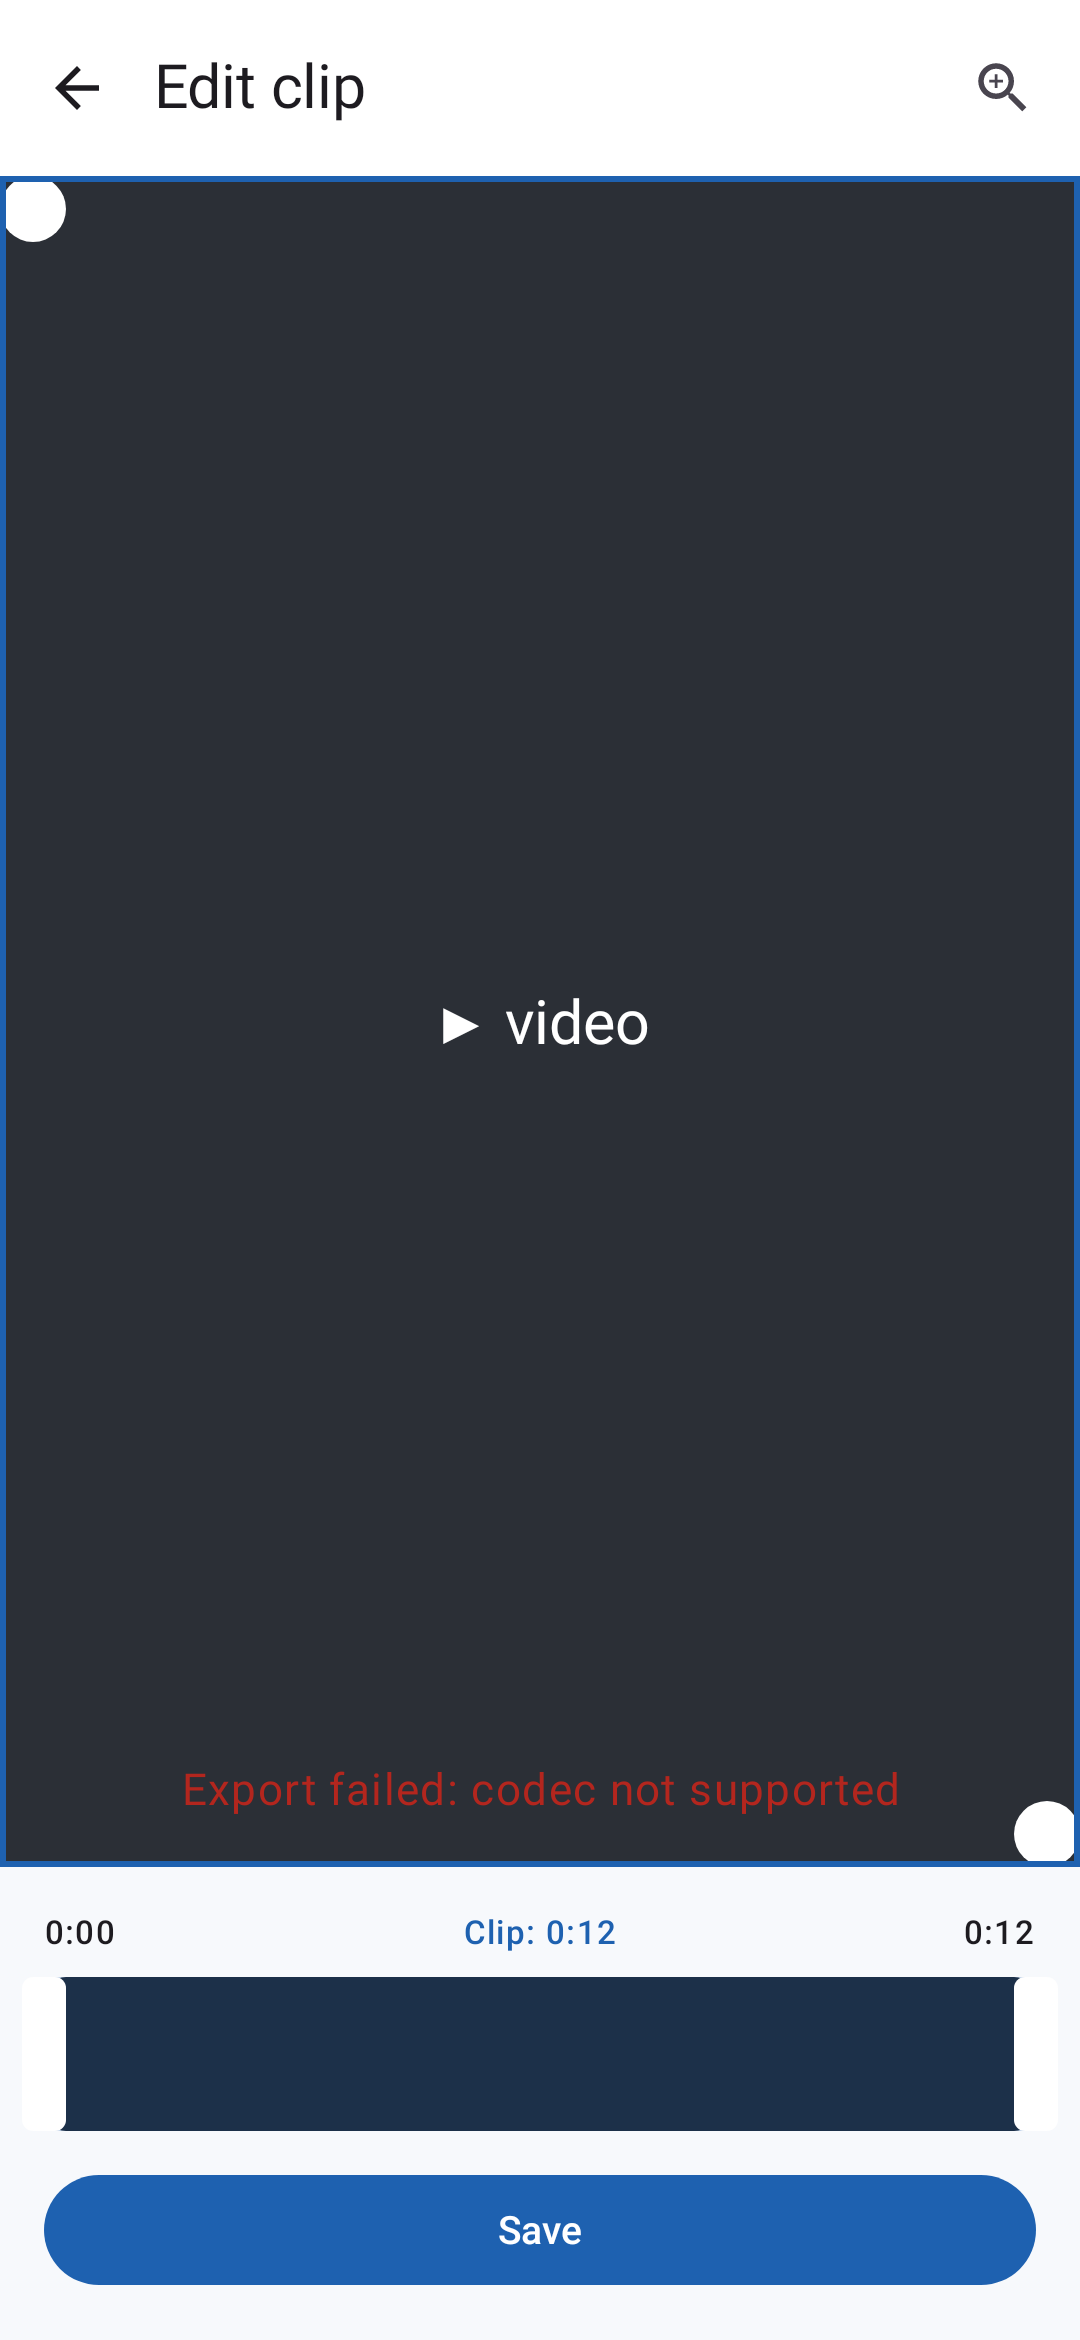
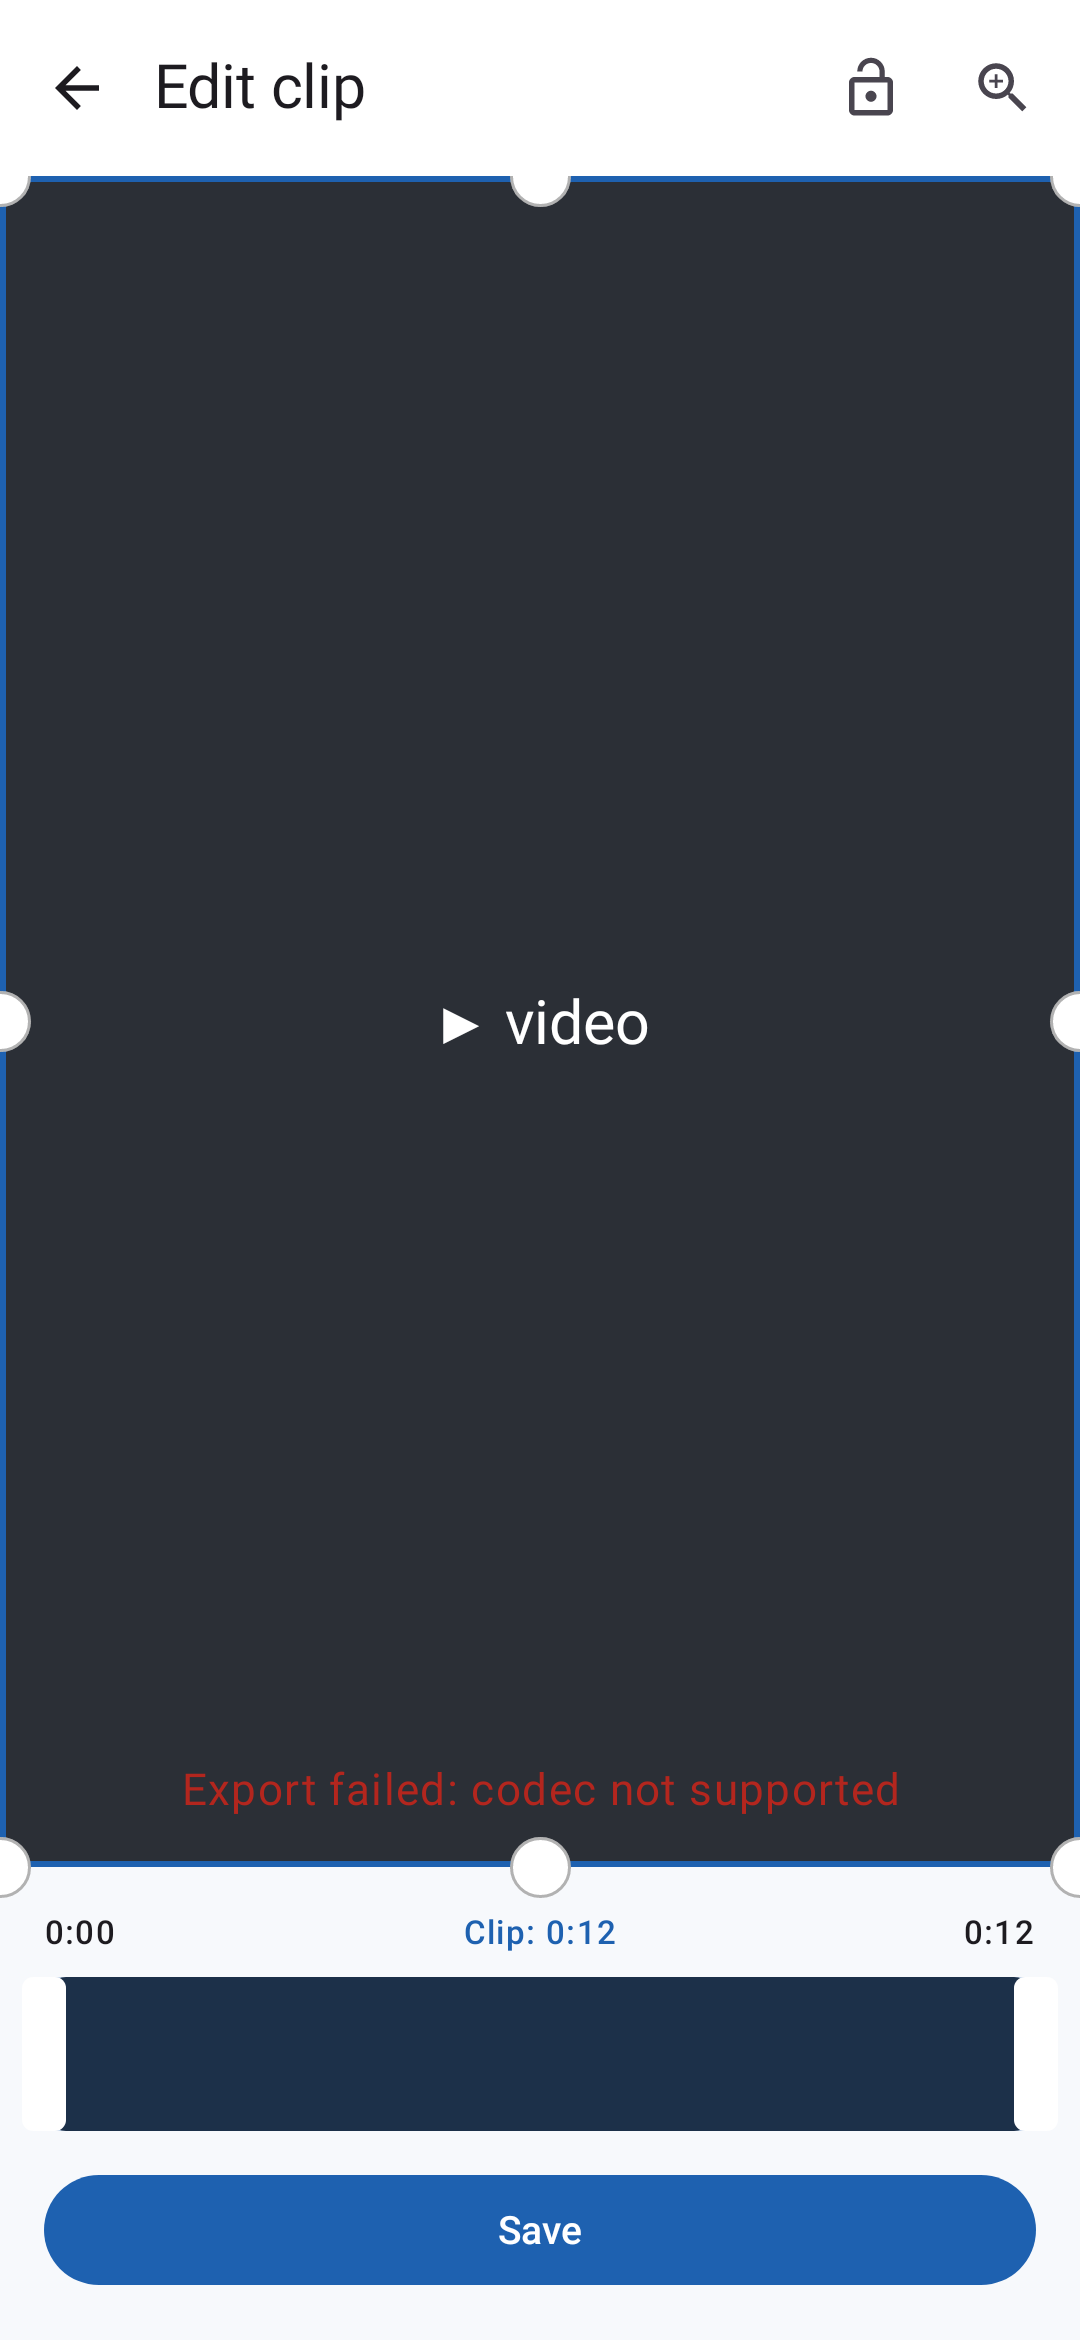
Editor crop overlay: 4 corners + edges, aspect lock, scrim
Rework CropOverlay for precise framing:
- 8 handles (4 corners + 4 edge midpoints) instead of 2
- Dimmed scrim over the cropped-out area so the kept region reads clearly
- Aspect-ratio lock toggle in the editor top bar; when locked, corner drags
  preserve the ratio and edge handles are hidden
- Min-size clamping on every handle

Claude-Session: https://claude.ai/code/session_01YbLYs8mC3en1dKxLdw9am7

diff --git a/app/src/main/java/com/presto/mediamanager/ui/editor/CropOverlay.kt b/app/src/main/java/com/presto/mediamanager/ui/editor/CropOverlay.kt
@@ -3,85 +3,159 @@ package com.presto.mediamanager.ui.editor
 import androidx.compose.foundation.background
 import androidx.compose.foundation.border
 import androidx.compose.foundation.gestures.detectDragGestures
+import androidx.compose.foundation.layout.Box
 import androidx.compose.foundation.layout.BoxWithConstraints
+import androidx.compose.foundation.layout.BoxWithConstraintsScope
 import androidx.compose.foundation.layout.fillMaxSize
 import androidx.compose.foundation.layout.offset
 import androidx.compose.foundation.layout.size
 import androidx.compose.foundation.shape.CircleShape
 import androidx.compose.material3.MaterialTheme
 import androidx.compose.runtime.Composable
+import androidx.compose.runtime.remember
 import androidx.compose.ui.Modifier
 import androidx.compose.ui.graphics.Color
 import androidx.compose.ui.input.pointer.pointerInput
 import androidx.compose.ui.platform.LocalDensity
+import androidx.compose.ui.unit.Dp
 import androidx.compose.ui.unit.dp
 import com.presto.mediamanager.media.CropRect
-import androidx.compose.foundation.layout.Box
+
+private const val MIN_SIZE = 0.12f
+private val HANDLE = 22.dp
 
 /**
- * Draggable/resizable crop rectangle over the video. Maintains a normalized
- * [CropRect] (0..1, top-left origin). Drag the body to move; drag a corner to resize.
+ * Draggable crop rectangle over the video with 4 corner and 4 edge handles, a
+ * dimmed scrim over the cropped-out area, and optional aspect-ratio lock. Holds
+ * a normalized [CropRect] (0..1, top-left origin).
  */
 @Composable
 fun CropOverlay(
     crop: CropRect,
     onCropChange: (CropRect) -> Unit,
+    aspectLocked: Boolean = false,
     modifier: Modifier = Modifier,
 ) {
     BoxWithConstraints(modifier.fillMaxSize()) {
         val density = LocalDensity.current
         val wPx = with(density) { maxWidth.toPx() }
         val hPx = with(density) { maxHeight.toPx() }
+        val aspect = remember(crop) {
+            (crop.right - crop.left).coerceAtLeast(0.001f) /
+                (crop.bottom - crop.top).coerceAtLeast(0.001f)
+        }
 
-        val leftDp = maxWidth * crop.left
-        val topDp = maxHeight * crop.top
-        val rectW = maxWidth * (crop.right - crop.left)
-        val rectH = maxHeight * (crop.bottom - crop.top)
+        CropScrim(crop)
 
+        // Body: drag to move the whole rect.
         Box(
             Modifier
-                .offset(x = leftDp, y = topDp)
-                .size(rectW, rectH)
+                .offset(x = maxWidth * crop.left, y = maxHeight * crop.top)
+                .size(maxWidth * (crop.right - crop.left), maxHeight * (crop.bottom - crop.top))
                 .border(2.dp, MaterialTheme.colorScheme.primary)
                 .pointerInput(Unit) {
                     detectDragGestures { _, drag ->
-                        val dx = drag.x / wPx
-                        val dy = drag.y / hPx
-                        val width = crop.right - crop.left
-                        val height = crop.bottom - crop.top
-                        val newLeft = (crop.left + dx).coerceIn(0f, 1f - width)
-                        val newTop = (crop.top + dy).coerceIn(0f, 1f - height)
-                        onCropChange(
-                            crop.copy(
-                                left = newLeft,
-                                top = newTop,
-                                right = newLeft + width,
-                                bottom = newTop + height,
-                            ),
-                        )
+                        val w = crop.right - crop.left
+                        val h = crop.bottom - crop.top
+                        val nl = (crop.left + drag.x / wPx).coerceIn(0f, 1f - w)
+                        val nt = (crop.top + drag.y / hPx).coerceIn(0f, 1f - h)
+                        onCropChange(crop.copy(left = nl, top = nt, right = nl + w, bottom = nt + h))
                     }
                 },
-        ) {
-            CornerHandle(Modifier.align(androidx.compose.ui.Alignment.TopStart)) { dx, dy ->
-                onCropChange(crop.copy(left = (crop.left + dx / wPx).coerceIn(0f, crop.right - 0.1f),
-                    top = (crop.top + dy / hPx).coerceIn(0f, crop.bottom - 0.1f)))
+        )
+
+        // Corner handles.
+        Handle(maxWidth * crop.left, maxHeight * crop.top) { dx, dy ->
+            onCropChange(resizeCorner(crop, dx / wPx, dy / hPx, true, true, aspect, aspectLocked))
+        }
+        Handle(maxWidth * crop.right, maxHeight * crop.top) { dx, dy ->
+            onCropChange(resizeCorner(crop, dx / wPx, dy / hPx, false, true, aspect, aspectLocked))
+        }
+        Handle(maxWidth * crop.left, maxHeight * crop.bottom) { dx, dy ->
+            onCropChange(resizeCorner(crop, dx / wPx, dy / hPx, true, false, aspect, aspectLocked))
+        }
+        Handle(maxWidth * crop.right, maxHeight * crop.bottom) { dx, dy ->
+            onCropChange(resizeCorner(crop, dx / wPx, dy / hPx, false, false, aspect, aspectLocked))
+        }
+
+        // Edge handles (hidden while aspect is locked, since they'd break the ratio).
+        if (!aspectLocked) {
+            val midX = maxWidth * (crop.left + crop.right) / 2
+            val midY = maxHeight * (crop.top + crop.bottom) / 2
+            Handle(midX, maxHeight * crop.top) { _, dy ->
+                onCropChange(crop.copy(top = (crop.top + dy / hPx).coerceIn(0f, crop.bottom - MIN_SIZE)))
             }
-            CornerHandle(Modifier.align(androidx.compose.ui.Alignment.BottomEnd)) { dx, dy ->
-                onCropChange(crop.copy(right = (crop.right + dx / wPx).coerceIn(crop.left + 0.1f, 1f),
-                    bottom = (crop.bottom + dy / hPx).coerceIn(crop.top + 0.1f, 1f)))
+            Handle(midX, maxHeight * crop.bottom) { _, dy ->
+                onCropChange(crop.copy(bottom = (crop.bottom + dy / hPx).coerceIn(crop.top + MIN_SIZE, 1f)))
+            }
+            Handle(maxWidth * crop.left, midY) { dx, _ ->
+                onCropChange(crop.copy(left = (crop.left + dx / wPx).coerceIn(0f, crop.right - MIN_SIZE)))
+            }
+            Handle(maxWidth * crop.right, midY) { dx, _ ->
+                onCropChange(crop.copy(right = (crop.right + dx / wPx).coerceIn(crop.left + MIN_SIZE, 1f)))
             }
         }
     }
 }
 
+/** Four dim rectangles covering everything outside the crop. */
 @Composable
-private fun CornerHandle(modifier: Modifier, onDrag: (Float, Float) -> Unit) {
+private fun BoxWithConstraintsScope.CropScrim(crop: CropRect) {
+    val scrim = Color.Black.copy(alpha = 0.5f)
+    Box(Modifier.size(maxWidth, maxHeight * crop.top).background(scrim))
     Box(
-        modifier
-            .size(24.dp)
+        Modifier.offset(y = maxHeight * crop.bottom)
+            .size(maxWidth, maxHeight * (1f - crop.bottom)).background(scrim),
+    )
+    Box(
+        Modifier.offset(y = maxHeight * crop.top)
+            .size(maxWidth * crop.left, maxHeight * (crop.bottom - crop.top)).background(scrim),
+    )
+    Box(
+        Modifier.offset(x = maxWidth * crop.right, y = maxHeight * crop.top)
+            .size(maxWidth * (1f - crop.right), maxHeight * (crop.bottom - crop.top)).background(scrim),
+    )
+}
+
+@Composable
+private fun BoxWithConstraintsScope.Handle(
+    centerX: Dp,
+    centerY: Dp,
+    onDrag: (Float, Float) -> Unit,
+) {
+    val half = HANDLE / 2
+    Box(
+        Modifier
+            .offset(x = centerX - half, y = centerY - half)
+            .size(HANDLE)
             .background(Color.White, CircleShape)
+            .border(1.dp, Color.Black.copy(alpha = 0.3f), CircleShape)
             .pointerInput(Unit) {
                 detectDragGestures { _, drag -> onDrag(drag.x, drag.y) }
             },
     )
+}
+
+/** Resize from a corner; when [locked] keep [aspect] (w/h) by deriving height from width. */
+private fun resizeCorner(
+    crop: CropRect,
+    dx: Float,
+    dy: Float,
+    left: Boolean,
+    top: Boolean,
+    aspect: Float,
+    locked: Boolean,
+): CropRect {
+    var l = crop.left
+    var t = crop.top
+    var r = crop.right
+    var b = crop.bottom
+    if (left) l = (l + dx).coerceIn(0f, r - MIN_SIZE) else r = (r + dx).coerceIn(l + MIN_SIZE, 1f)
+    if (top) t = (t + dy).coerceIn(0f, b - MIN_SIZE) else b = (b + dy).coerceIn(t + MIN_SIZE, 1f)
+
+    if (locked) {
+        val newH = ((r - l) / aspect).coerceIn(MIN_SIZE, 1f)
+        if (top) t = (b - newH).coerceIn(0f, b - MIN_SIZE) else b = (t + newH).coerceIn(t + MIN_SIZE, 1f)
+    }
+    return crop.copy(left = l, top = t, right = r, bottom = b)
 }

diff --git a/app/src/main/java/com/presto/mediamanager/ui/editor/EditorScreen.kt b/app/src/main/java/com/presto/mediamanager/ui/editor/EditorScreen.kt
@@ -10,6 +10,8 @@ import androidx.compose.foundation.layout.fillMaxWidth
 import androidx.compose.foundation.layout.padding
 import androidx.compose.material.icons.Icons
 import androidx.compose.material.icons.automirrored.filled.ArrowBack
+import androidx.compose.material.icons.filled.Lock
+import androidx.compose.material.icons.filled.LockOpen
 import androidx.compose.material.icons.filled.ZoomIn
 import androidx.compose.material.icons.filled.ZoomOut
 import androidx.compose.material3.Button
@@ -17,6 +19,7 @@ import androidx.compose.material3.CircularProgressIndicator
 import androidx.compose.material3.ExperimentalMaterial3Api
 import androidx.compose.material3.Icon
 import androidx.compose.material3.IconButton
+import androidx.compose.material3.LocalContentColor
 import androidx.compose.material3.MaterialTheme
 import androidx.compose.material3.Scaffold
 import androidx.compose.material3.Text
@@ -87,6 +90,7 @@ fun EditorContent(
 ) {
     var showSheet by remember { mutableStateOf(false) }
     var zoomInspect by remember { mutableStateOf(false) }
+    var aspectLocked by remember { mutableStateOf(false) }
 
     Scaffold(
         modifier = modifier,
@@ -99,6 +103,13 @@ fun EditorContent(
                     }
                 },
                 actions = {
+                    IconButton(onClick = { aspectLocked = !aspectLocked }, enabled = !zoomInspect) {
+                        Icon(
+                            if (aspectLocked) Icons.Filled.Lock else Icons.Filled.LockOpen,
+                            contentDescription = if (aspectLocked) "Unlock aspect ratio" else "Lock aspect ratio",
+                            tint = if (aspectLocked) MaterialTheme.colorScheme.primary else LocalContentColor.current,
+                        )
+                    }
                     IconButton(onClick = { zoomInspect = !zoomInspect }) {
                         Icon(
                             if (zoomInspect) Icons.Filled.ZoomOut else Icons.Filled.ZoomIn,
@@ -148,7 +159,11 @@ fun EditorContent(
             } else {
                 videoSlot(item, zoomInspect)
                 if (!zoomInspect) {
-                    CropOverlay(crop = state.crop, onCropChange = onCropChange)
+                    CropOverlay(
+                        crop = state.crop,
+                        onCropChange = onCropChange,
+                        aspectLocked = aspectLocked,
+                    )
                 }
                 if (state.exporting) {
                     Box(